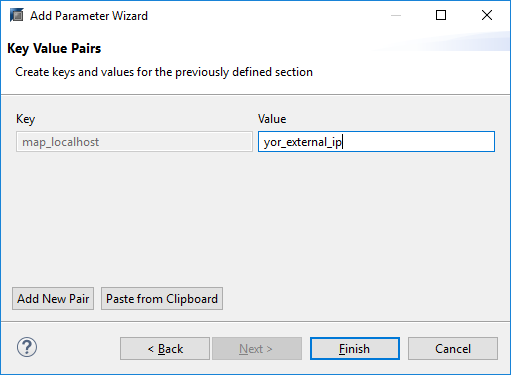
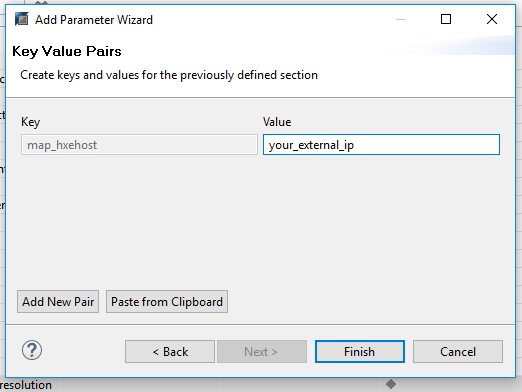
HXE GCP tenant db connect sps02 update

Changed region(s): [[0.0, 0.0, 1.0, 1.0]]

diff --git a/tutorials/2017/06/hxe-gcp-eclipse-tenant-connect/hxe-gcp-eclipse-tenant-connect.md b/tutorials/2017/06/hxe-gcp-eclipse-tenant-connect/hxe-gcp-eclipse-tenant-connect.md
@@ -35,7 +35,7 @@ Click on the **Configuration** tab and use the value `use_default_route` as a fi
 
 [ACCORDION-BEGIN [Step 2: ](Add a new key-value pair)]
 
-Right-click on `public hostname resolution` and on **Add parameter**. Use `map_localhost` as the key and your external IP as shown in the Compute Engine as the value.
+Right-click on `public hostname resolution` and on **Add parameter**. Use `map_hxehost` as the key and your external IP as shown in the Compute Engine as the value.
 
 ![Add key-value pair](3.png)
 
